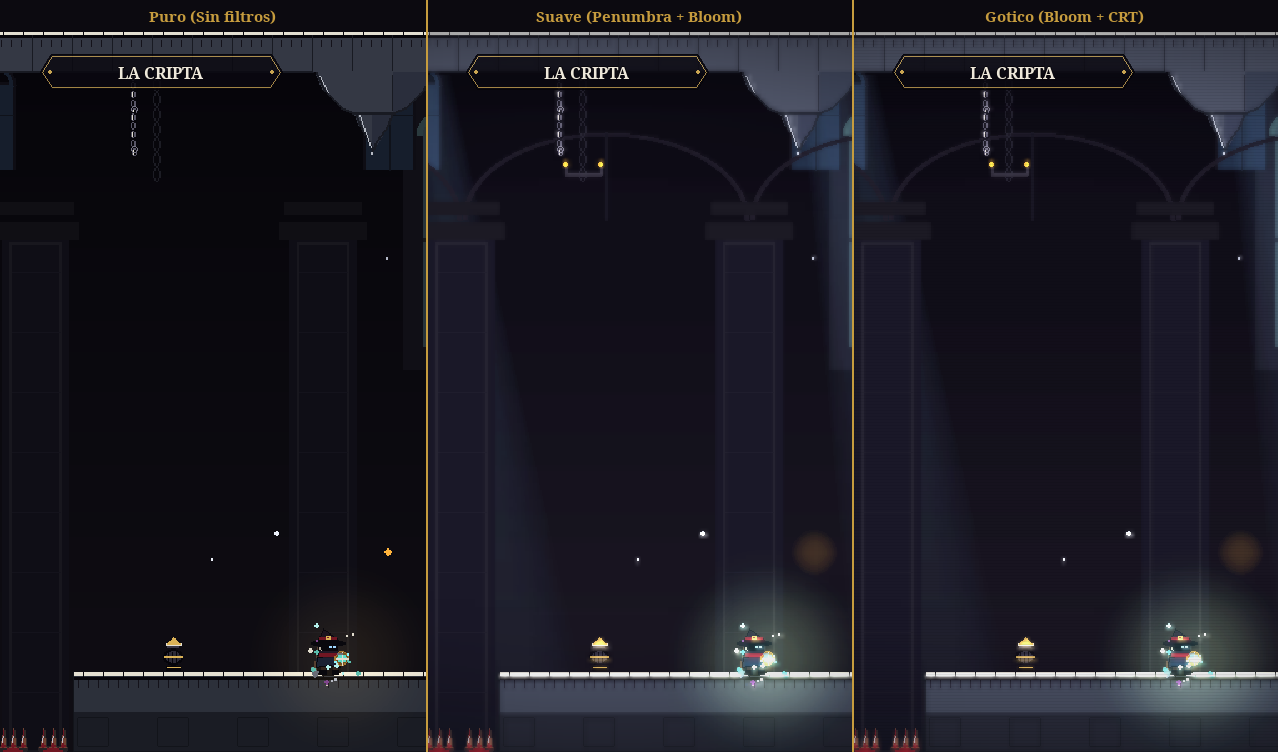
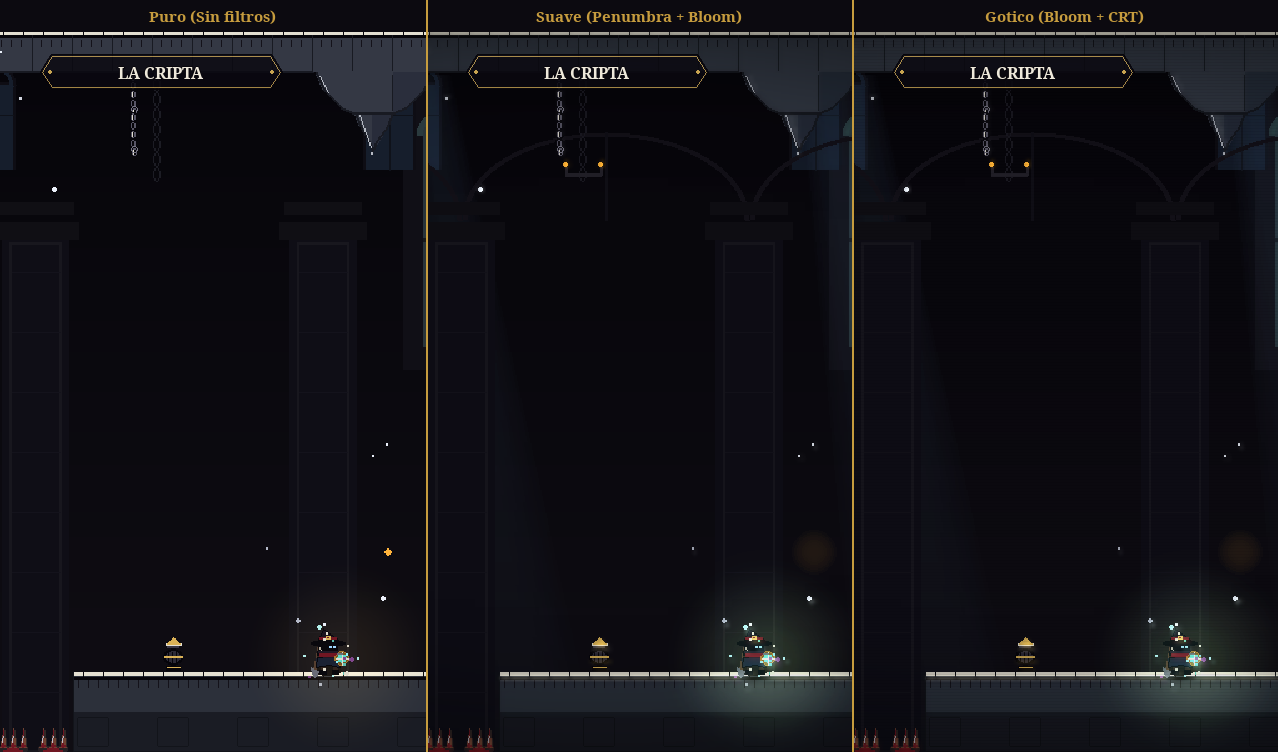
fix(render,wayland): corregir bloom cuadrado, halos radiales y agregar F11 pantalla completa

diff --git a/escena/render_mundo.py b/escena/render_mundo.py
@@ -10,13 +10,30 @@ from escena.fondos import _obtener_luz_calida, _obtener_luz_perforacion
 class RenderMundoMixin:
     """Metodos de renderizado del mundo, iluminacion, shaders y debug visual."""
 
-    def _aplicar_bloom(self, origen, destino, intensidad=0.12):
+    def _obtener_superficies_bloom(self, pw, ph):
+        clave = (pw, ph)
+        cache = getattr(self, "_cache_bloom_surfs", None)
+        if cache is not None and cache[0] == clave:
+            return cache[1:]
+        hl = pygame.Surface((pw, ph))
+        s1 = pygame.Surface((max(1, pw // 2), max(1, ph // 2)))
+        s2 = pygame.Surface((max(1, pw // 4), max(1, ph // 4)))
+        self._cache_bloom_surfs = (clave, hl, s1, s2)
+        return hl, s1, s2
+
+    def _aplicar_bloom(self, origen, destino, intensidad=0.42):
         pw, ph = destino.get_size()
-        sw, sh = max(1, pw // 4), max(1, ph // 4)
-        mini = pygame.transform.smoothscale(origen, (sw, sh))
-        bloom = pygame.transform.smoothscale(mini, (pw, ph))
-        bloom.set_alpha(int(255 * intensidad))
-        destino.blit(bloom, (0, 0), special_flags=pygame.BLEND_RGB_ADD)
+        hl, s1, s2 = self._obtener_superficies_bloom(pw, ph)
+        hl.blit(origen, (0, 0))
+        # Recorte de fondo oscuro para que solo brillen luces, llamas y particulas.
+        hl.fill((36, 32, 44), special_flags=pygame.BLEND_RGB_SUB)
+        pygame.transform.smoothscale(hl, s1.get_size(), s1)
+        pygame.transform.smoothscale(s1, s2.get_size(), s2)
+        pygame.transform.smoothscale(s2, s1.get_size(), s1)
+        pygame.transform.smoothscale(s1, (pw, ph), hl)
+        escala = max(0, min(255, int(255 * intensidad)))
+        hl.fill((escala, escala, escala), special_flags=pygame.BLEND_RGB_MULT)
+        destino.blit(hl, (0, 0), special_flags=pygame.BLEND_RGB_ADD)
 
     def _dibujar_penumbra_mundo(self, destino):
         self.mascara_penumbra.fill((8, 7, 12, 38))
@@ -115,18 +132,19 @@ class RenderMundoMixin:
             alfa_manto = min(40, int(alfa_manto * 0.3))
         destello = getattr(self, "_superficie_destello_manto", None)
         if destello is None or destello.get_size() != (pw, ph):
-            self._superficie_destello_manto = pygame.Surface((pw, ph), pygame.SRCALPHA)
-        self._superficie_destello_manto.fill((0, 0, 0, 0))
+            self._superficie_destello_manto = pygame.Surface((pw, ph))
+        self._superficie_destello_manto.fill((0, 0, 0))
         for step in range(12):
-            a_step = int(alfa_manto * (1.0 - step / 12.0))
+            frac = (alfa_manto * (1.0 - step / 12.0)) / 255.0
+            col_ring = (int(110 * frac), int(215 * frac), int(255 * frac))
             pygame.draw.rect(
                 self._superficie_destello_manto,
-                (110, 215, 255, a_step),
+                col_ring,
                 (step * 2, step * 2, pw - step * 4, ph - step * 4),
                 2,
             )
         self.pantalla.blit(
-            self._superficie_destello_manto, (0, 0), special_flags=pygame.BLEND_RGBA_ADD
+            self._superficie_destello_manto, (0, 0), special_flags=pygame.BLEND_RGB_ADD
         )
 
     def _aplicar_postprocesado_pantalla(self, pw, ph):
@@ -135,7 +153,7 @@ class RenderMundoMixin:
         calidad_modo = getattr(self, "config_calidad_idx", 0)
 
         if shader_modo in (0, 1) and calidad_modo != 2:
-            self._aplicar_bloom(self.pantalla, self.pantalla, intensidad=0.12)
+            self._aplicar_bloom(self.pantalla, self.pantalla, intensidad=0.42)
 
         if shader_modo == 0 and calidad_modo != 2:
             if (

diff --git a/actores/estampas.py b/actores/estampas.py
@@ -39,6 +39,17 @@ def obtener_aura_custodio(w, h, color, alfa):
     return surf
 
 
+def _dibujar_disco_radial_suave(surf, centro, radio, color_rgb, alpha_max, pasos=10):
+    cr, cg, cb = color_rgb[:3]
+    for i in range(pasos, 0, -1):
+        frac = i / float(pasos)
+        r = max(1, int(round(radio * frac)))
+        norm = (i - 1) / float(pasos)
+        alfa = int(alpha_max * ((1.0 - norm * norm) ** 1.8))
+        if alfa > 0:
+            pygame.draw.circle(surf, (cr, cg, cb, alfa), centro, r)
+
+
 def obtener_estampa_luz(radio, color, max_alfa):
     """Genera y cachea un halo radial con caida cuadratica para blend aditivo."""
     clave = (int(radio), tuple(color[:3]), int(max_alfa))
@@ -49,10 +60,9 @@ def obtener_estampa_luz(radio, color, max_alfa):
         surf.fill((0, 0, 0, 0))
         cx, cy = radio, radio
         r_int = int(radio)
-        paso = max(1, r_int // 24)
         cr, cg, cb = color[:3]
         intensidad = max_alfa / 255.0
-        for r in range(r_int, 0, -paso):
+        for r in range(r_int, 0, -1):
             norm = r / radio
             factor = max(0.0, (1.0 - norm * norm) ** 2.0)
             rgb = (
@@ -109,9 +119,7 @@ def obtener_halo_alma(step):
         surf = pygame.Surface((44, 44), pygame.SRCALPHA)
         pulso = step / 7.0
         factor = 0.8 + 0.2 * pulso
-        pygame.draw.circle(surf, (160, 90, 245, int(14 * factor)), (22, 22), 18)
-        pygame.draw.circle(surf, (180, 120, 255, int(28 * factor)), (22, 22), 12)
-        pygame.draw.circle(surf, (210, 180, 255, int(48 * factor)), (22, 22), 6)
+        _dibujar_disco_radial_suave(surf, (22, 22), 18, (175, 110, 250), int(42 * factor), pasos=8)
         surf = surf.convert_alpha()
         _CACHE_HALOS[clave] = surf
     return surf
@@ -127,8 +135,7 @@ def obtener_aura_pickup(color_base, step):
         surf = pygame.Surface((64, 64), pygame.SRCALPHA)
         pulso = step / 7.0
         factor = 0.75 + pulso * 0.25
-        for radio, alfa in ((27, 24), (20, 42), (13, 72)):
-            pygame.draw.circle(surf, (cr, cg, cb, int(alfa * factor)), (32, 32), radio)
+        _dibujar_disco_radial_suave(surf, (32, 32), 27, (cr, cg, cb), int(68 * factor), pasos=10)
         surf = surf.convert_alpha()
         _CACHE_HALOS[clave] = surf
     return surf
@@ -209,10 +216,8 @@ def obtener_halo_campana(repicando, step):
         pulso = step / 7.0
         radio = 24 if repicando else 16
         surf = pygame.Surface((radio * 2, radio * 2), pygame.SRCALPHA)
-        alfa_halo = int(60 + pulso * 40) if repicando else int(16 + pulso * 10)
-        pygame.draw.circle(surf, (92, 190, 174, alfa_halo), (radio, radio), radio)
-        color_centro = (180, 240, 230, int(alfa_halo * 0.7))
-        pygame.draw.circle(surf, color_centro, (radio, radio), radio // 2)
+        alfa_halo = int(85 + pulso * 45) if repicando else int(24 + pulso * 12)
+        _dibujar_disco_radial_suave(surf, (radio, radio), radio, (110, 215, 200), alfa_halo, pasos=8)
         surf = surf.convert_alpha()
         _CACHE_HALOS[clave] = surf
     return surf

diff --git a/juego.py b/juego.py
@@ -1,5 +1,6 @@
 #---- Importamos librerias y modulos ----#
 from collections import OrderedDict
+import os
 from pathlib import Path
 import sys
 import warnings
@@ -109,6 +110,8 @@ class Juego(
 
     def _iniciar_pygame(self):
         warnings.filterwarnings("ignore", category=UserWarning)
+        os.environ.setdefault("SDL_VIDEO_WAYLAND_WMCLASS", "in-crypta")
+        os.environ.setdefault("SDL_VIDEO_X11_WMCLASS", "in-crypta")
         try:
             if pygame.mixer.get_init() is None:
                 pygame.mixer.pre_init(44100, -16, 2, 2048)
@@ -116,7 +119,14 @@ class Juego(
             # En entornos sin dispositivo de audio seguimos sin preinicializar el mezclador.
             pass
         pygame.init()
-        self.pantalla = pygame.display.set_mode((ANCHO, ALTO))
+        es_dummy = os.environ.get("SDL_VIDEODRIVER") == "dummy"
+        self._display_flags = 0 if es_dummy else (pygame.SCALED | pygame.RESIZABLE)
+        self._pantalla_completa = False
+        try:
+            self.pantalla = pygame.display.set_mode((ANCHO, ALTO), self._display_flags)
+        except pygame.error:
+            self._display_flags = 0
+            self.pantalla = pygame.display.set_mode((ANCHO, ALTO))
         pygame.display.set_caption(TITULO)
         self.reloj = pygame.time.Clock()
         self.corriendo = True
@@ -382,6 +392,9 @@ class Juego(
             if evento.type == pygame.QUIT:
                 self.corriendo = False
             elif evento.type == pygame.KEYDOWN:
+                if evento.key == pygame.K_F11:
+                    self.alternar_pantalla_completa()
+                    continue
                 if self.estado == "creditos":
                     if evento.key in (pygame.K_ESCAPE, pygame.K_RETURN, pygame.K_SPACE):
                         self.abrir_menu()

diff --git a/escena/menus.py b/escena/menus.py
@@ -133,6 +133,20 @@ class MenusMixin:
         self.hud.mostrar_mensaje(f"TAMAÑO DE TEXTO (F2): {etiqueta}", 1, 2.5)
         self.audio.reproducir("ui")
 
+    def alternar_pantalla_completa(self):
+        """Alterna entre ventana escalada y pantalla completa (F11)."""
+        self._pantalla_completa = not getattr(self, "_pantalla_completa", False)
+        base_flags = getattr(self, "_display_flags", 0)
+        flags = (base_flags | pygame.FULLSCREEN) if self._pantalla_completa else base_flags
+        try:
+            self.pantalla = pygame.display.set_mode((ANCHO, ALTO), flags)
+        except pygame.error:
+            self._pantalla_completa = False
+            self.pantalla = pygame.display.set_mode((ANCHO, ALTO))
+        self.audio.reproducir("ui")
+        modo = "PANTALLA COMPLETA" if self._pantalla_completa else "VENTANA"
+        self.hud.mostrar_mensaje(f"MODO DE VIDEO (F11): {modo}", 1, 2.5)
+
     def ejecutar_seleccion_nivel(self, indice):
         if indice == 0:
             self.iniciar_tutorial()

diff --git a/actores/carcelero.py b/actores/carcelero.py
@@ -321,8 +321,8 @@ class MiniJefe:
             pygame.draw.rect(surface, seg_color, (bx + i * 12 + 1, by + 1, 10, 4), border_radius=1)
 
         if self.tiempo_flash > 0:
-            flash_overlay = obtener_aura_custodio(rect.width, rect.height, (180, 180, 180), 160)
-            surface.blit(flash_overlay, rect.topleft, special_flags=pygame.BLEND_RGB_ADD)
+            flash_overlay = obtener_aura_custodio(rect.width, rect.height, (235, 235, 240), 140)
+            surface.blit(flash_overlay, rect.topleft)
 
     def dibujar(self, surface, camara, tiempo):
         """Renderiza al Carcelero con sus auras, armadura y barra de vida."""

diff --git a/actores/custodio.py b/actores/custodio.py
@@ -661,5 +661,5 @@ class Custodio:
             pygame.draw.polygon(surface, BLANCO, rombo, 1)
 
         if self.tiempo_flash > 0:
-            flash_overlay = obtener_aura_custodio(rect.width, rect.height, (140, 140, 140), 140)
-            surface.blit(flash_overlay, rect.topleft, special_flags=pygame.BLEND_RGB_ADD)
+            flash_overlay = obtener_aura_custodio(rect.width, rect.height, (235, 235, 240), 130)
+            surface.blit(flash_overlay, rect.topleft)
